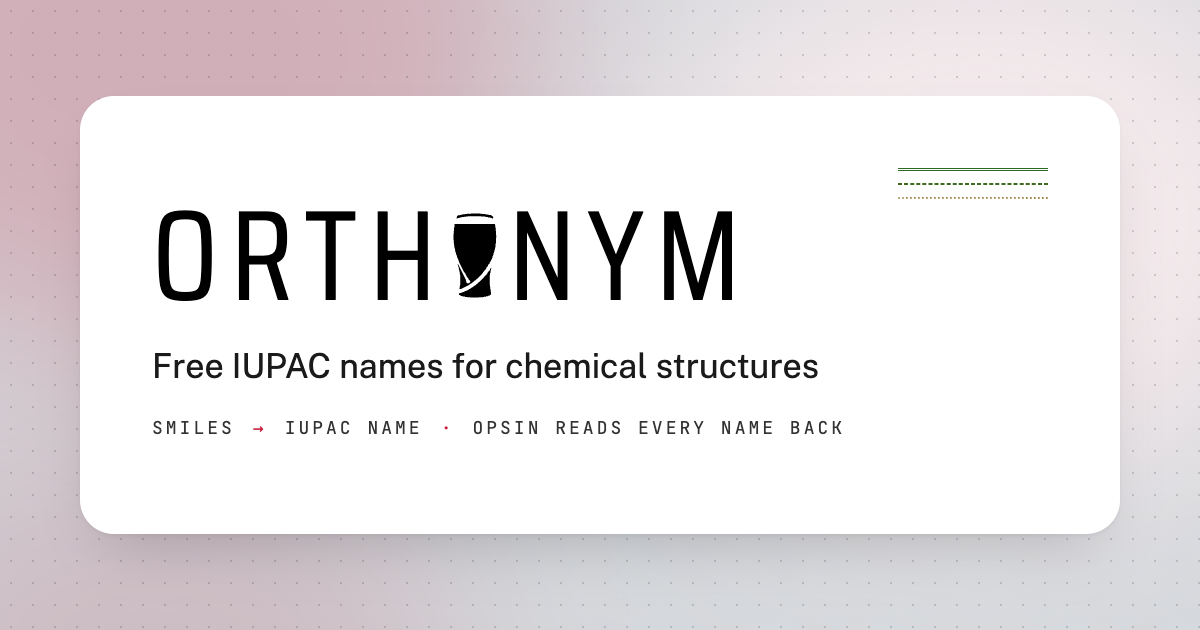
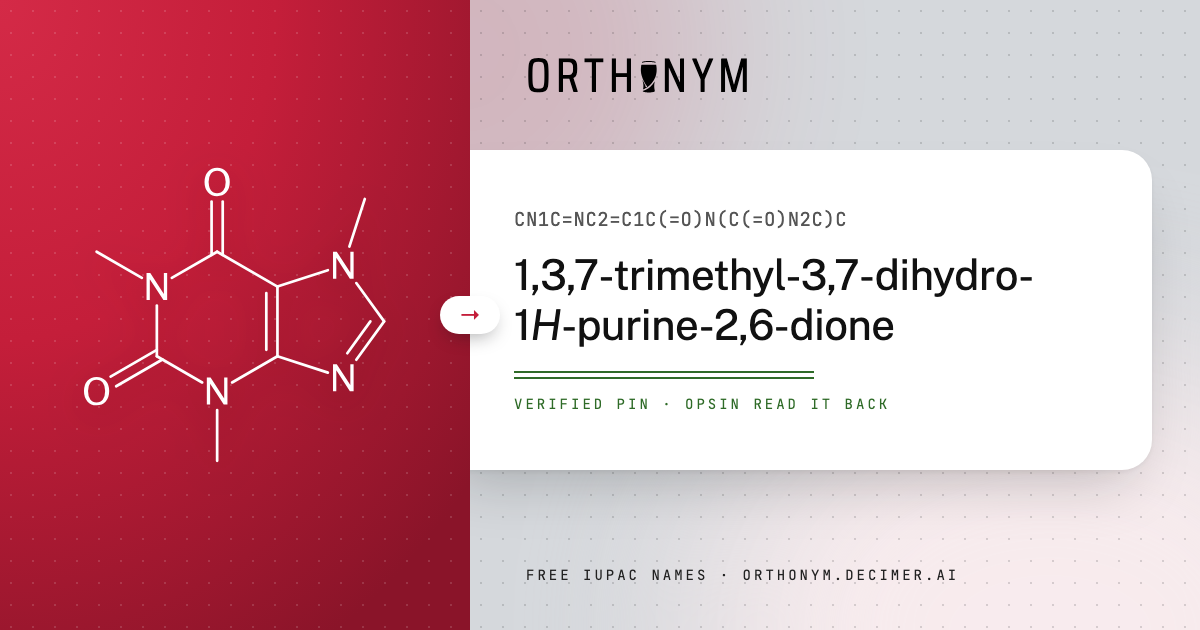
feat: new link-preview image
Caffeine in white on a crimson panel, its verified name on the bench. ?v=2 makes link previews fetch the new image.

diff --git a/frontend/index.html b/frontend/index.html
@@ -42,10 +42,10 @@
       property="og:description"
       content="Deterministic IUPAC names for chemical structures. OPSIN reads every name back, and each one is labelled with the confidence it earned."
     />
-    <meta property="og:image" content="https://orthonym.decimer.ai/og-image.png" />
+    <meta property="og:image" content="https://orthonym.decimer.ai/og-image.png?v=2" />
     <meta property="og:image:width" content="1200" />
     <meta property="og:image:height" content="630" />
-    <meta property="og:image:alt" content="Orthonym: verified IUPAC names for chemical structures" />
+    <meta property="og:image:alt" content="Orthonym: the caffeine structure and its verified IUPAC name, 1,3,7-trimethyl-3,7-dihydro-1H-purine-2,6-dione" />
     <meta name="twitter:card" content="summary_large_image" />
     <!-- Tells Google the site's name is "Orthonym" (WebSite) and what it is
          (WebApplication). Every claim here is one the site itself makes. -->
